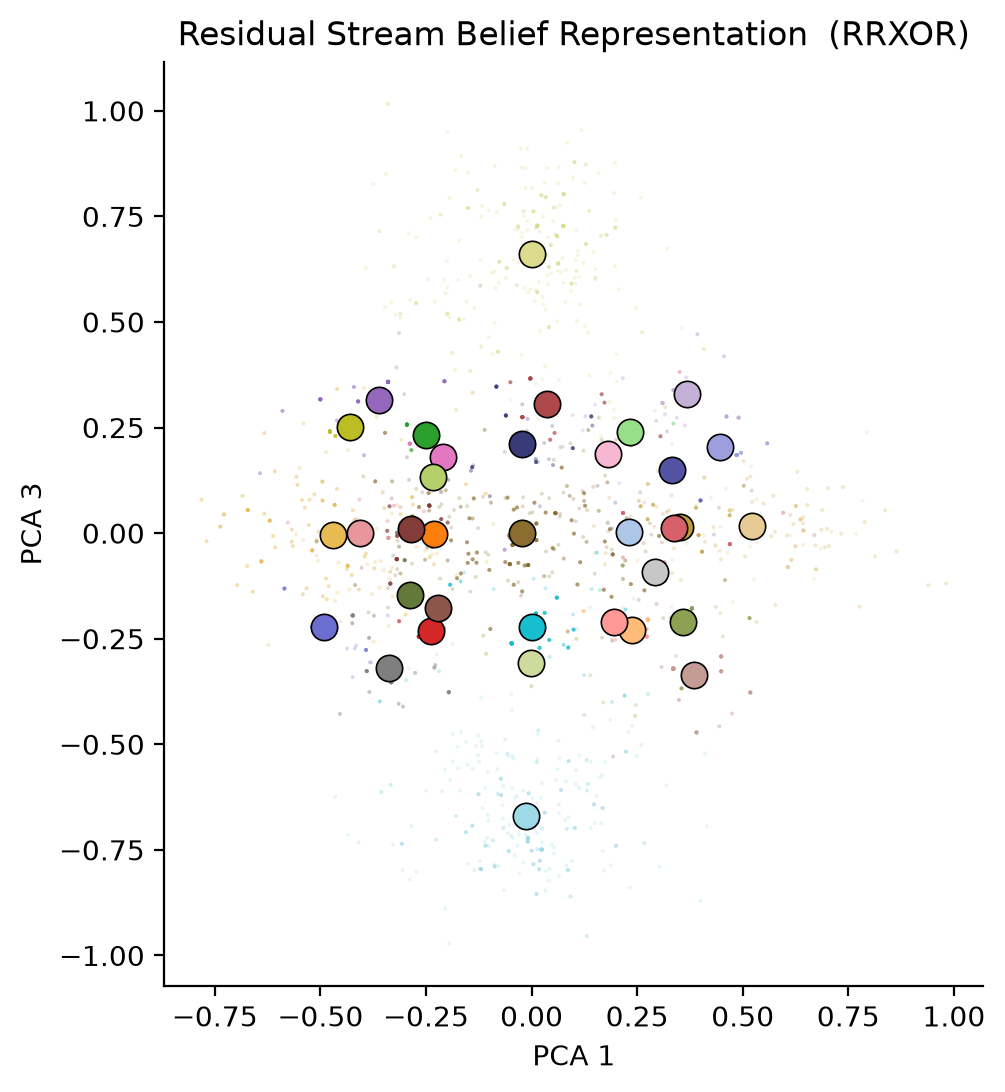
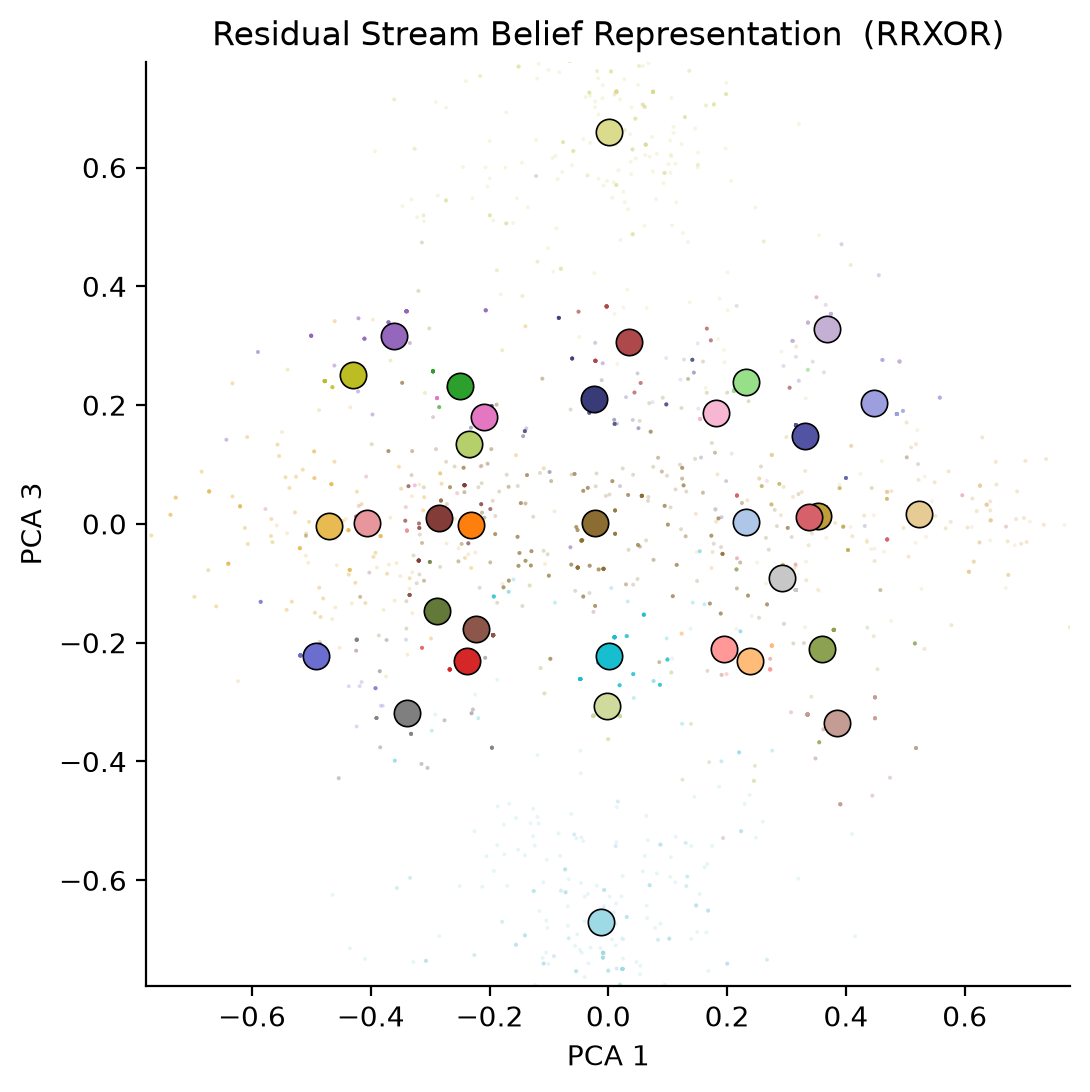
fig10: match fig09 axis limits
Set fig10's x/y limits from the 36 ground-truth points (panel-B projection) with
matplotlib's default 5% margin, so the residual-representation panel (C) shares the
exact axis range as the ground-truth panel (B). Both now span [-0.778, 0.778].

diff --git a/reproduction/fig10_rrxor_representation.py b/reproduction/fig10_rrxor_representation.py
@@ -129,6 +129,7 @@ def main():
     # project with the panel-B PCA (fit on the 36 ground-truth beliefs), symmetric PC1/PC3
     pca = PCA(n_components=4).fit(B36)
     xy = pca.transform(pred)[:, [0, 2]]
+    tgt_xy = pca.transform(B36)[:, [0, 2]]          # fig09 ground-truth projection (for matching axes)
     flat_idx = idx.reshape(-1)
     colors = distinct_colors(len(B36))
 
@@ -143,6 +144,10 @@ def main():
     ax.set_title("Residual Stream Belief Representation  (RRXOR)")
     ax.set_xlabel("PCA 1"); ax.set_ylabel("PCA 3"); ax.set_aspect("equal")
     ax.spines[["top", "right"]].set_visible(False)
+    # match fig09's axes: autoscale to the 36 ground-truth points with matplotlib's 5% margin
+    for set_lim, v in ((ax.set_xlim, tgt_xy[:, 0]), (ax.set_ylim, tgt_xy[:, 1])):
+        lo, hi = v.min(), v.max(); pad = 0.05 * (hi - lo)
+        set_lim(lo - pad, hi + pad)
     out = FIG_DIR / "fig10_rrxor_residual_representation.png"
     fig.savefig(out, dpi=200, bbox_inches="tight", facecolor="white")
     print(f"saved -> {out}")
